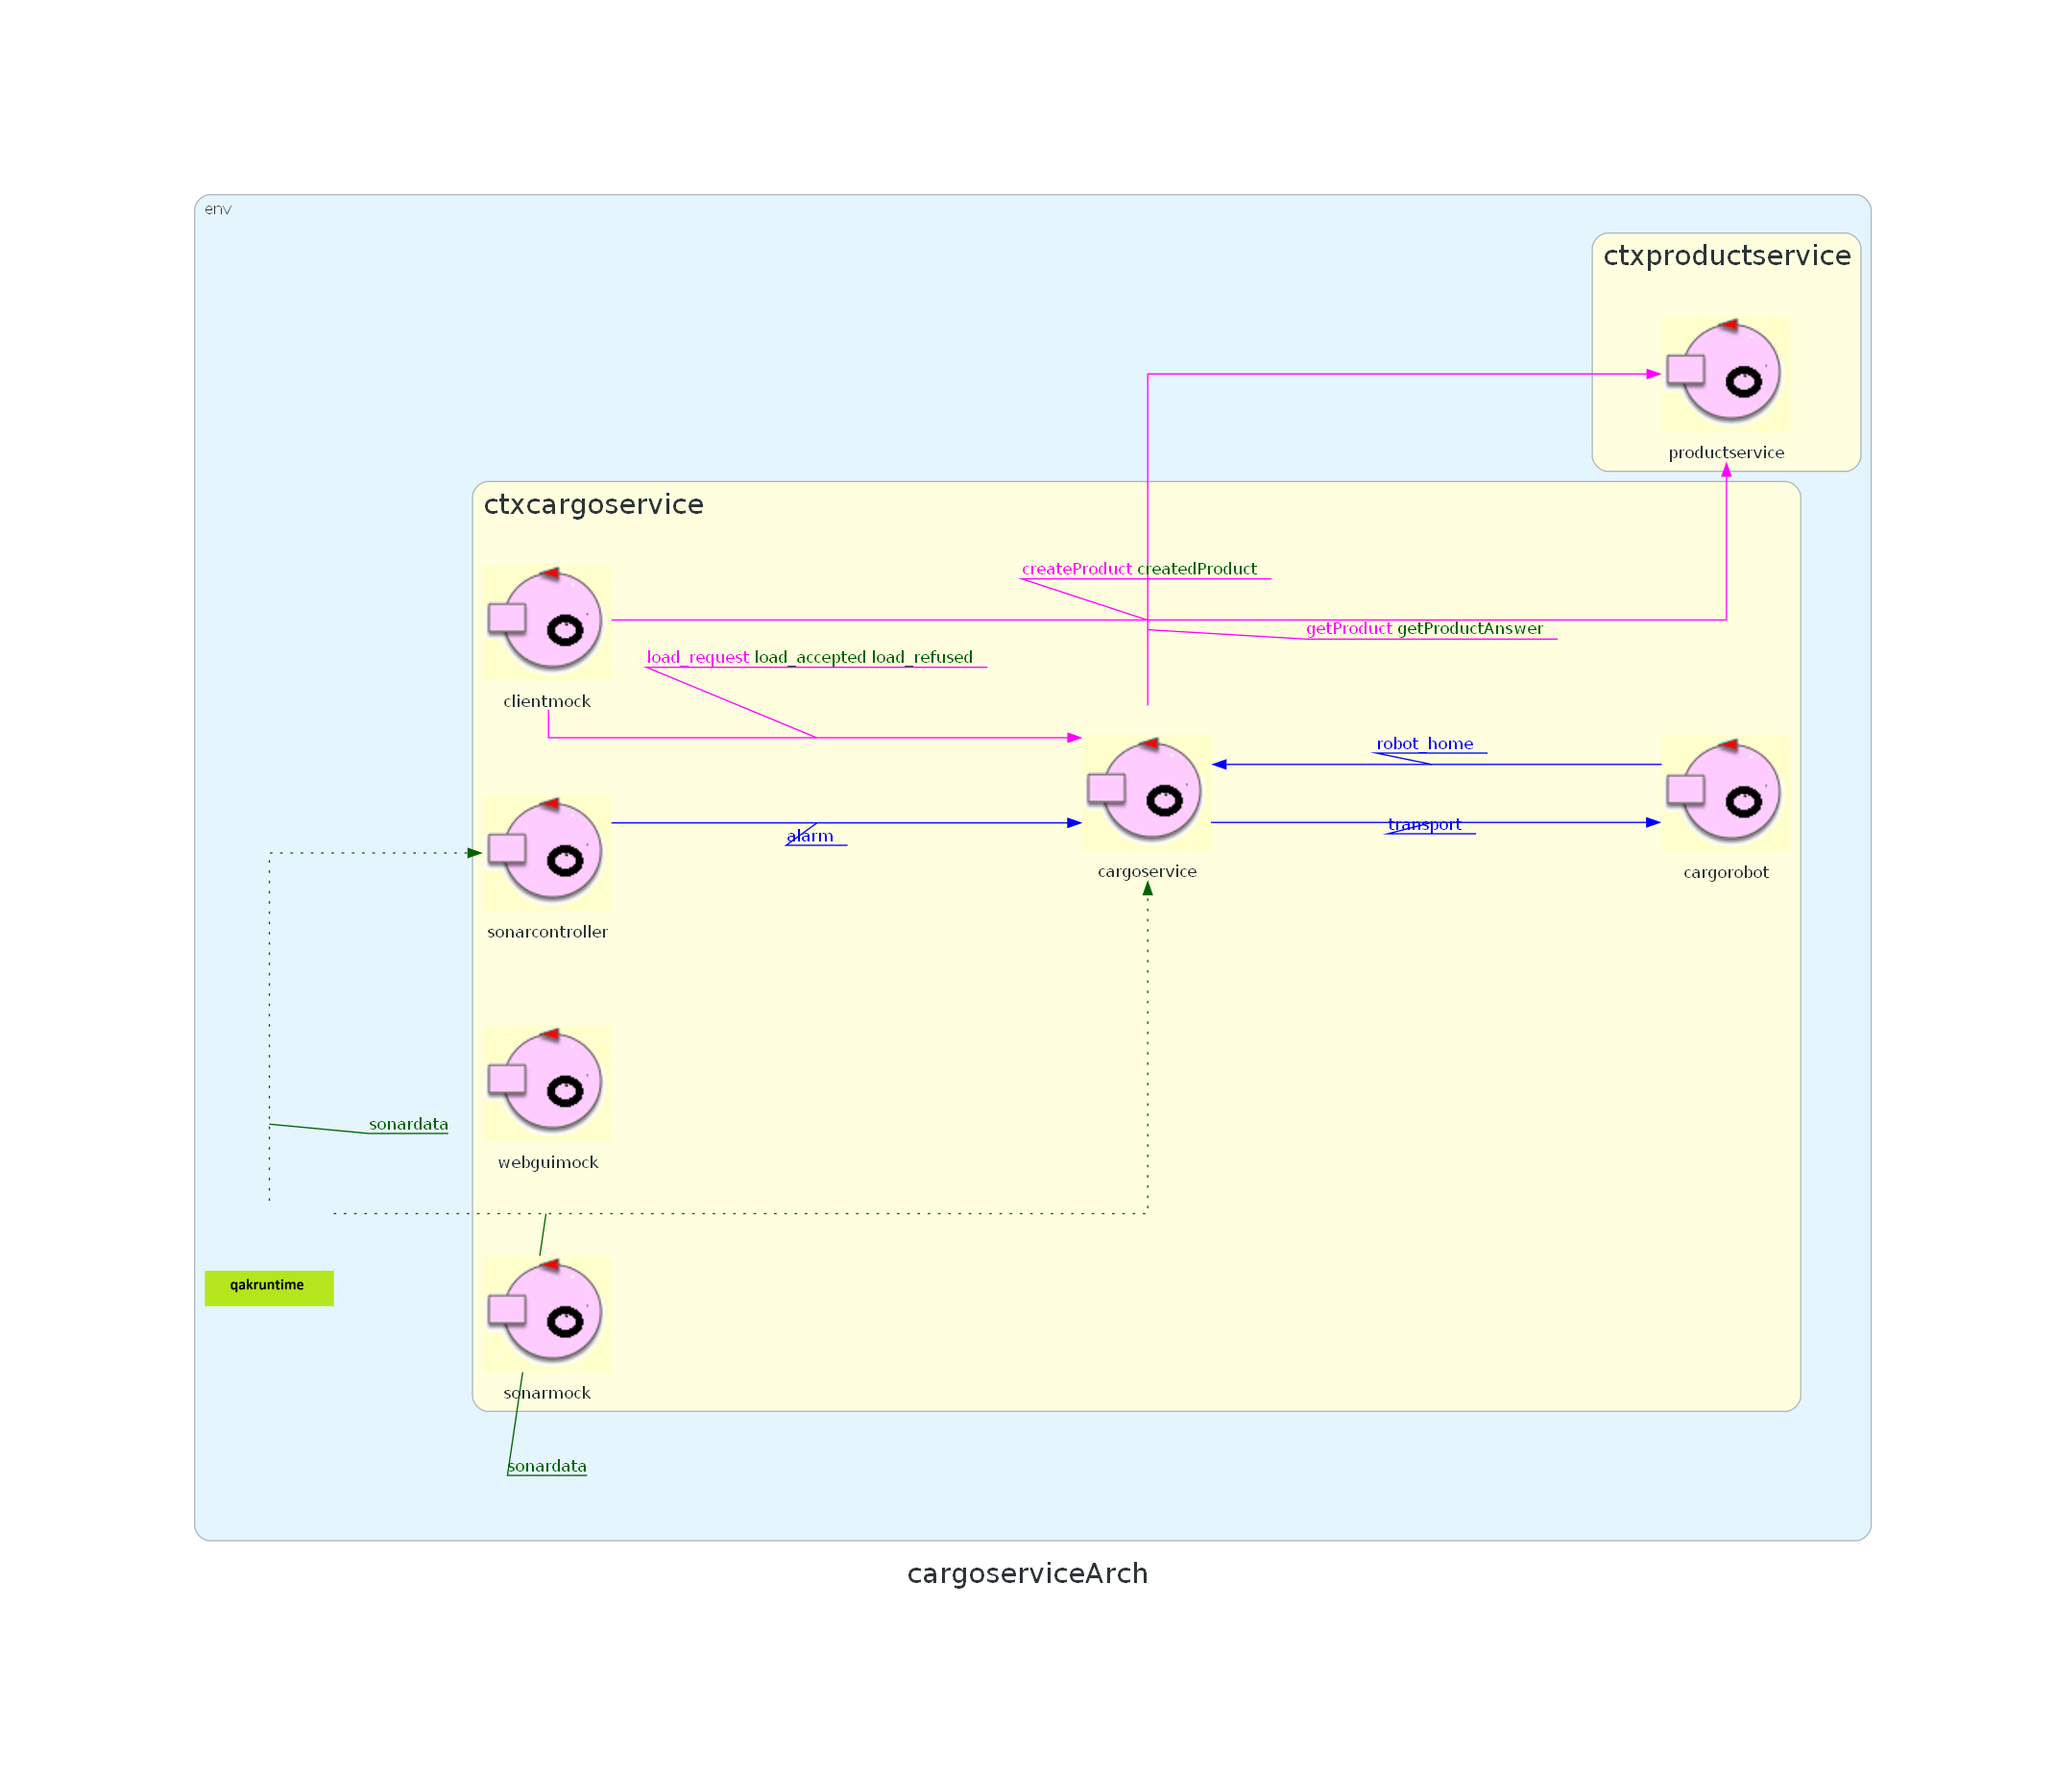
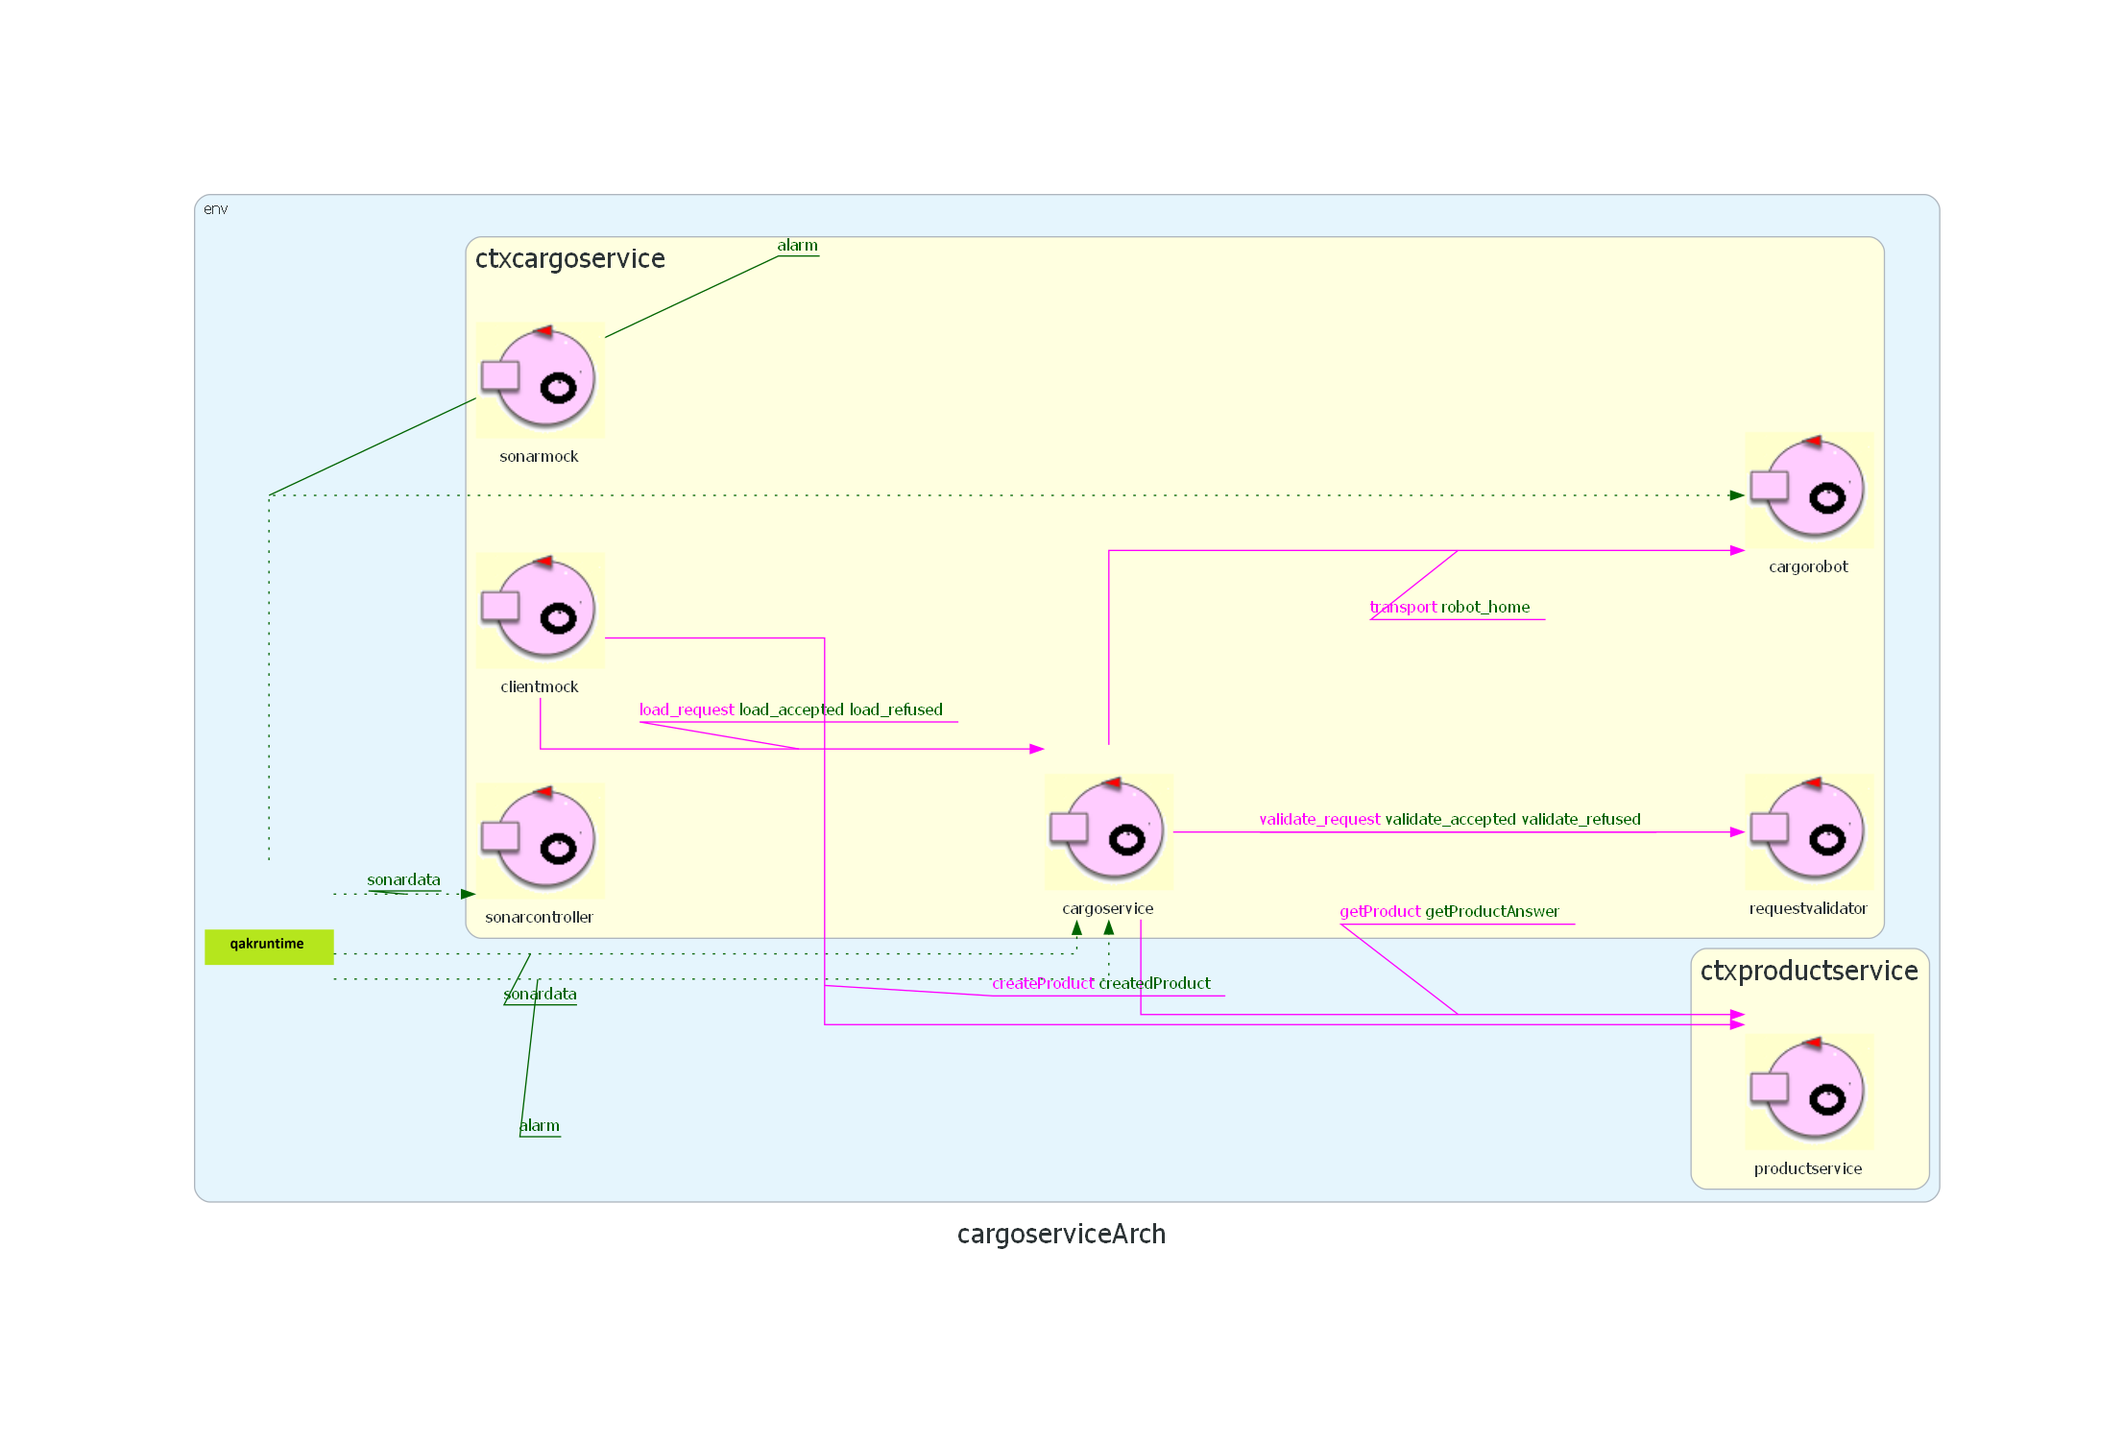
aggiunto in cargorobot la gestione dell'alarm e tolta la webgui_mock

diff --git a/sprint1/project/cargoservice/src/it/unibo/cargorobot/Cargorobot.kt b/sprint1/project/cargoservice/src/it/unibo/cargorobot/Cargorobot.kt
@@ -38,6 +38,7 @@ class Cargorobot ( name: String, scope: CoroutineScope, isconfined: Boolean=fals
 					sysaction { //it:State
 					}	 	 
 					 transition(edgeName="t225",targetState="go_ioport",cond=whenRequest("transport"))
+					interrupthandle(edgeName="t226",targetState="handlealarm",cond=whenEvent("alarm"),interruptedStateTransitions)
 				}	 
 				state("go_ioport") { //this:State
 					action { //it:State
@@ -56,6 +57,23 @@ class Cargorobot ( name: String, scope: CoroutineScope, isconfined: Boolean=fals
 					//After Lenzi Aug2002
 					sysaction { //it:State
 					}	 	 
+					 transition( edgeName="goto",targetState="s0", cond=doswitch() )
+				}	 
+				state("handlealarm") { //this:State
+					action { //it:State
+						if(  currentMsg.msgContent() == "alarm(ok)"  
+						 ){CommUtils.outyellow("cargorobot | servizio ripristinato")
+						returnFromInterrupt(interruptedStateTransitions)
+						}
+						else
+						 {CommUtils.outyellow("cargorobot | servizio interrotto")
+						 }
+						//genTimer( actor, state )
+					}
+					//After Lenzi Aug2002
+					sysaction { //it:State
+					}	 	 
+					 transition(edgeName="t627",targetState="handlealarm",cond=whenEvent("alarm"))
 				}	 
 			}
 		}

diff --git a/sprint1/docs/html/Sprint1_v1.html b/sprint1/docs/html/Sprint1_v1.html
@@ -845,7 +845,7 @@
 
         Dopo aver completato l'attore legato al core-business del sistema <strong>cargoservice</strong>, nello Sprint2
         procediamo con l'implementazione di
-        <strong>cargorobot</strong> e <strong>webgui_mock</strong> in modo tale da completare il contesto
+        <strong>cargorobot</strong> e <strong>webgui</strong> in modo tale da completare il contesto
         <strong>ctxcargoservice</strong>.
 
         </br>
@@ -853,7 +853,7 @@
 
         In particolare, <strong>cargorobot</strong> si occuperà di estendere <Strong>basicrobot</Strong> implementando
         le funzionalità legate al trasporto dei product
-        container. L'attore <strong>webgui_mock</strong>, invece, permetterà di implementare la funzionalità di
+        container. L'attore <strong>webgui</strong>, invece, permetterà di implementare la funzionalità di
         visualizzazione dello stato della Hold tramite un'interfaccia
         accessibile all'utente.
 

diff --git a/sprint1/project/cargoservice/Arch_cargoservice.py b/sprint1/project/cargoservice/Arch_cargoservice.py
@@ -33,11 +33,11 @@ with Diagram('cargoserviceArch', show=False, outformat='png', graph_attr=graphat
           requestvalidator=Custom('requestvalidator','./qakicons/symActorWithobjSmall.png')
           sonarcontroller=Custom('sonarcontroller','./qakicons/symActorWithobjSmall.png')
           cargorobot=Custom('cargorobot','./qakicons/symActorWithobjSmall.png')
-          webguimock=Custom('webguimock','./qakicons/symActorWithobjSmall.png')
           sonarmock=Custom('sonarmock','./qakicons/symActorWithobjSmall.png')
      sys >> Edge( label='sonardata', **evattr, decorate='true', fontcolor='darkgreen') >> cargoservice
      sys >> Edge( label='alarm', **evattr, decorate='true', fontcolor='darkgreen') >> cargoservice
      sys >> Edge( label='sonardata', **evattr, decorate='true', fontcolor='darkgreen') >> sonarcontroller
+     sys >> Edge( label='alarm', **evattr, decorate='true', fontcolor='darkgreen') >> cargorobot
      cargoservice >> Edge(color='magenta', style='solid', decorate='true', label='<validate_request<font color="darkgreen"> validate_accepted validate_refused</font> &nbsp; >',  fontcolor='magenta') >> requestvalidator
      clientmock >> Edge(color='magenta', style='solid', decorate='true', label='<createProduct<font color="darkgreen"> createdProduct</font> &nbsp; >',  fontcolor='magenta') >> productservice
      clientmock >> Edge(color='magenta', style='solid', decorate='true', label='<load_request<font color="darkgreen"> load_accepted load_refused</font> &nbsp; >',  fontcolor='magenta') >> cargoservice
